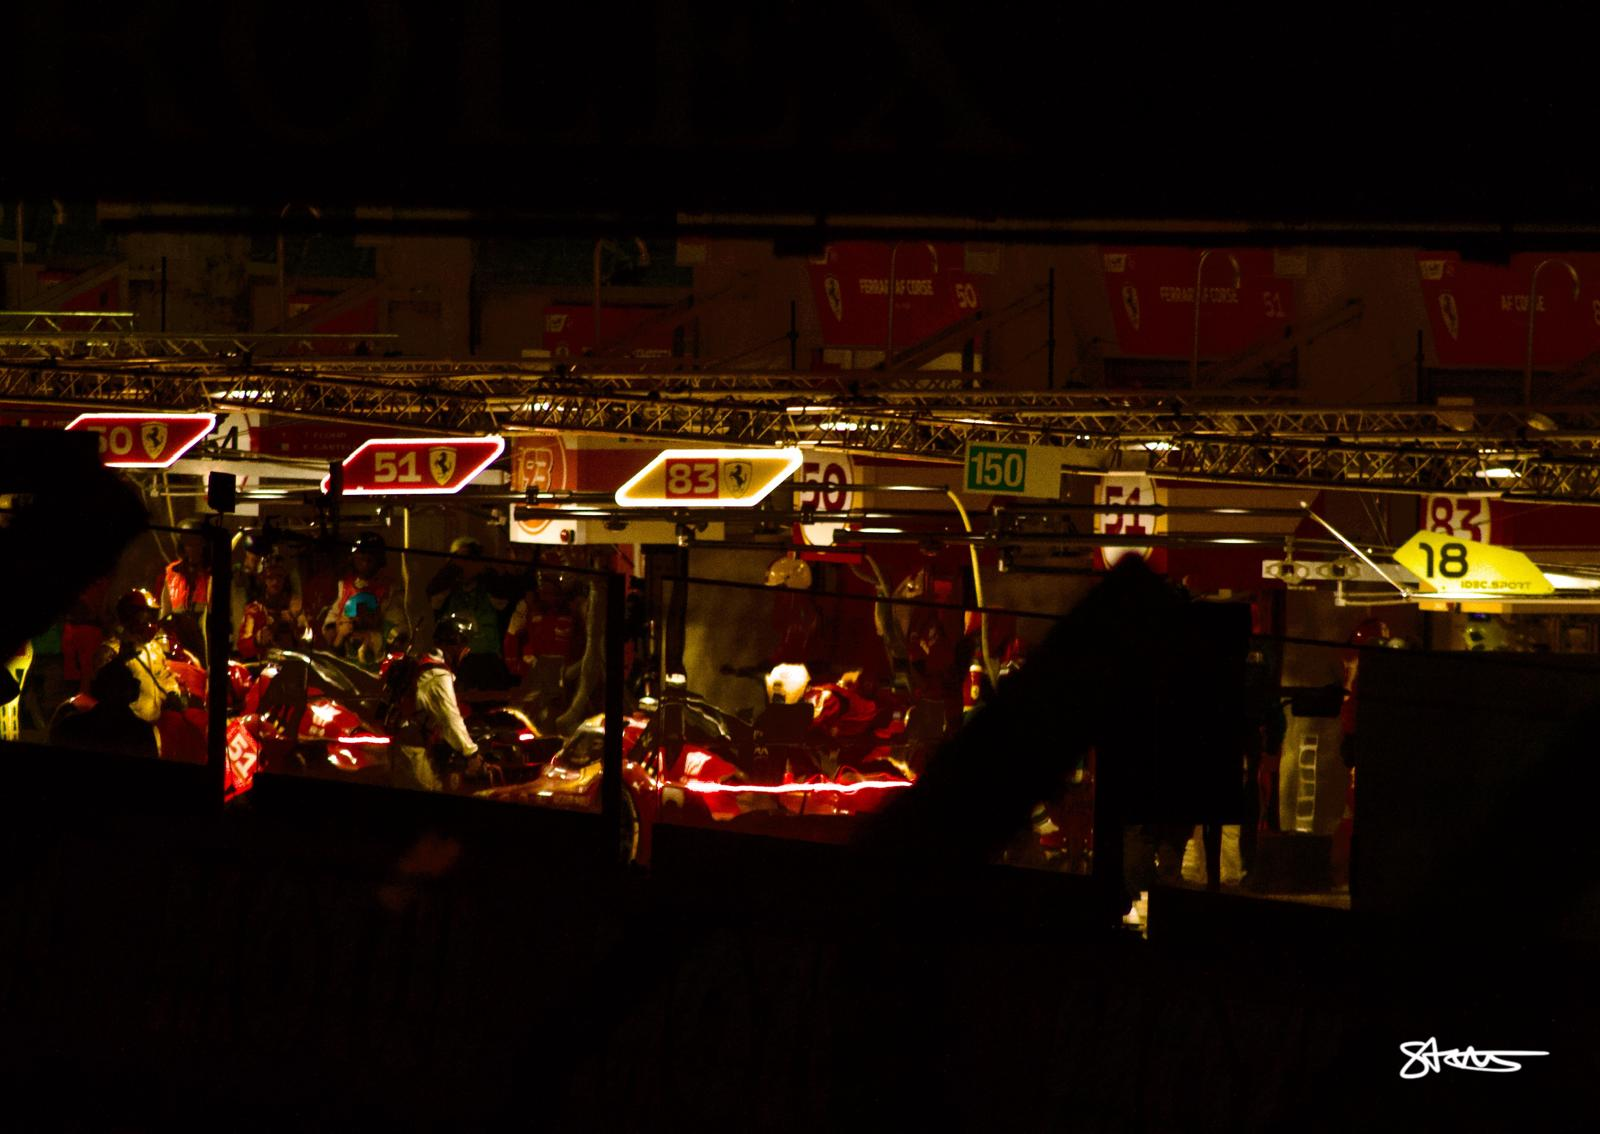
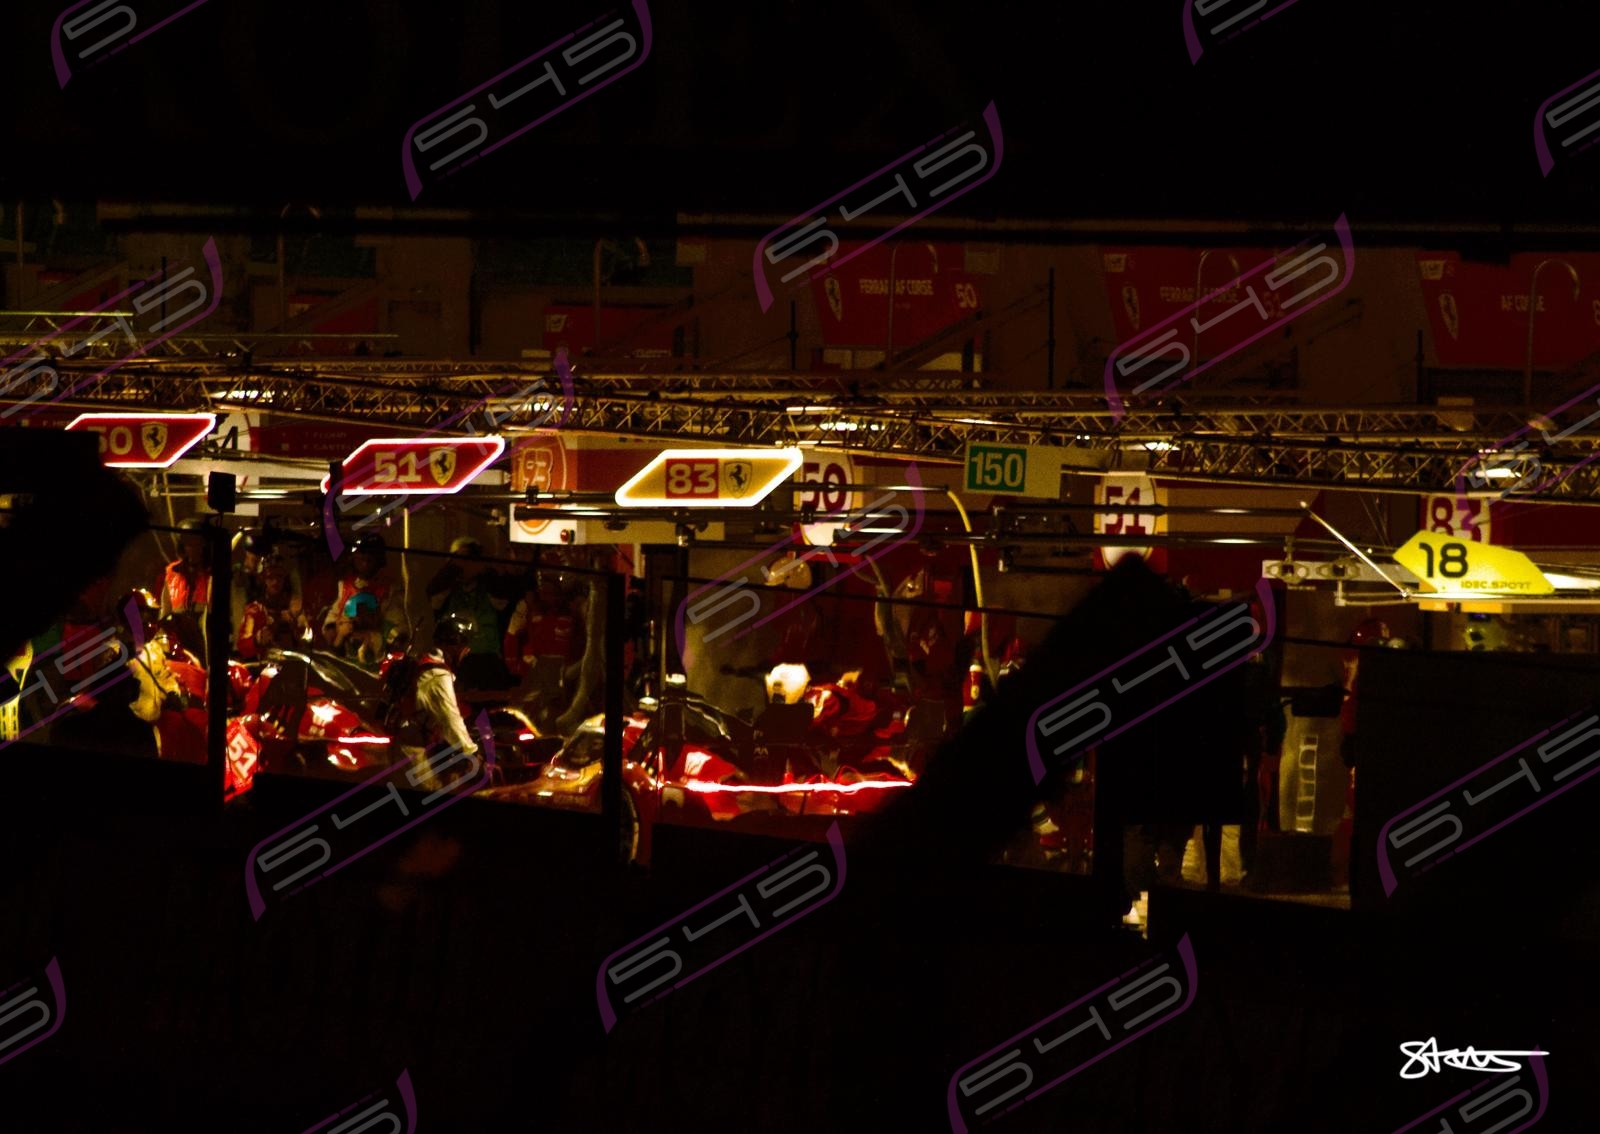
Diagonal 545 watermark built into every print image

diff --git a/prints.html b/prints.html
@@ -42,9 +42,9 @@
       <p>Race photography from the paddock, the pit lane and the track.</p>
     </div>
     <div class="shop shop-photo">
-      <div class="item"><figure><div class="art"><img src="img/prints/ferrari-le-mans.jpg" alt="Ferrari AF Corse pit garages at night at Le Mans, lit in red and gold" width="1600" height="1134" loading="lazy"></div><figcaption><span class="name">Ferrari at Le Mans</span><a class="enquire" href="contact.html">Enquire to buy</a></figcaption></figure></div>
-      <div class="item"><figure><div class="art"><img src="img/prints/iron-dames.jpg" alt="The number 85 Iron Dames Porsche in the pit lane at night, crew at work" width="1600" height="1066" loading="lazy"></div><figcaption><span class="name">Iron Dames</span><a class="enquire" href="contact.html">Enquire to buy</a></figcaption></figure></div>
-      <div class="item"><figure><div class="art"><img src="img/prints/porsche-ferris-wheel.jpg" alt="The illuminated Porsche Ferris wheel above the Le Mans circuit at night" width="1600" height="1148" loading="lazy"></div><figcaption><span class="name">Porsche Ferris Wheel</span><a class="enquire" href="contact.html">Enquire to buy</a></figcaption></figure></div>
+      <div class="item"><figure><div class="art"><img src="img/prints/ferrari-le-mans.jpg?v=wm" alt="Ferrari AF Corse pit garages at night at Le Mans, lit in red and gold" width="1600" height="1134" loading="lazy"></div><figcaption><span class="name">Ferrari at Le Mans</span><a class="enquire" href="contact.html">Enquire to buy</a></figcaption></figure></div>
+      <div class="item"><figure><div class="art"><img src="img/prints/iron-dames.jpg?v=wm" alt="The number 85 Iron Dames Porsche in the pit lane at night, crew at work" width="1600" height="1066" loading="lazy"></div><figcaption><span class="name">Iron Dames</span><a class="enquire" href="contact.html">Enquire to buy</a></figcaption></figure></div>
+      <div class="item"><figure><div class="art"><img src="img/prints/porsche-ferris-wheel.jpg?v=wm" alt="The illuminated Porsche Ferris wheel above the Le Mans circuit at night" width="1600" height="1148" loading="lazy"></div><figcaption><span class="name">Porsche Ferris Wheel</span><a class="enquire" href="contact.html">Enquire to buy</a></figcaption></figure></div>
     </div>
 
     <div class="section-head print-group">
@@ -52,9 +52,9 @@
       <p>Original illustrations, drawn by hand and signed.</p>
     </div>
     <div class="shop shop-art">
-      <div class="item"><figure><div class="art"><img src="img/prints/burgundy-porsche.jpg" alt="Illustration of a burgundy classic Porsche 911 Targa on a pink background" width="1111" height="1600" loading="lazy"></div><figcaption><span class="name">Burgundy Porsche</span><a class="enquire" href="contact.html">Enquire to buy</a></figcaption></figure></div>
-      <div class="item"><figure><div class="art"><img src="img/prints/gt3-rs.jpg" alt="Illustration of a black Porsche GT3 race car from behind, rear lights glowing red" width="1111" height="1600" loading="lazy"></div><figcaption><span class="name">GT3 RS</span><a class="enquire" href="contact.html">Enquire to buy</a></figcaption></figure></div>
-      <div class="item"><figure><div class="art"><img src="img/prints/sv5.jpg" alt="Illustration of a Ferrari Formula 1 car head-on, in deep red shadow" width="1111" height="1600" loading="lazy"></div><figcaption><span class="name">SV5</span><a class="enquire" href="contact.html">Enquire to buy</a></figcaption></figure></div>
+      <div class="item"><figure><div class="art"><img src="img/prints/burgundy-porsche.jpg?v=wm" alt="Illustration of a burgundy classic Porsche 911 Targa on a pink background" width="1111" height="1600" loading="lazy"></div><figcaption><span class="name">Burgundy Porsche</span><a class="enquire" href="contact.html">Enquire to buy</a></figcaption></figure></div>
+      <div class="item"><figure><div class="art"><img src="img/prints/gt3-rs.jpg?v=wm" alt="Illustration of a black Porsche GT3 race car from behind, rear lights glowing red" width="1111" height="1600" loading="lazy"></div><figcaption><span class="name">GT3 RS</span><a class="enquire" href="contact.html">Enquire to buy</a></figcaption></figure></div>
+      <div class="item"><figure><div class="art"><img src="img/prints/sv5.jpg?v=wm" alt="Illustration of a Ferrari Formula 1 car head-on, in deep red shadow" width="1111" height="1600" loading="lazy"></div><figcaption><span class="name">SV5</span><a class="enquire" href="contact.html">Enquire to buy</a></figcaption></figure></div>
     </div>
     <div class="note">
       <h3 class="display">Commission pieces</h3>
